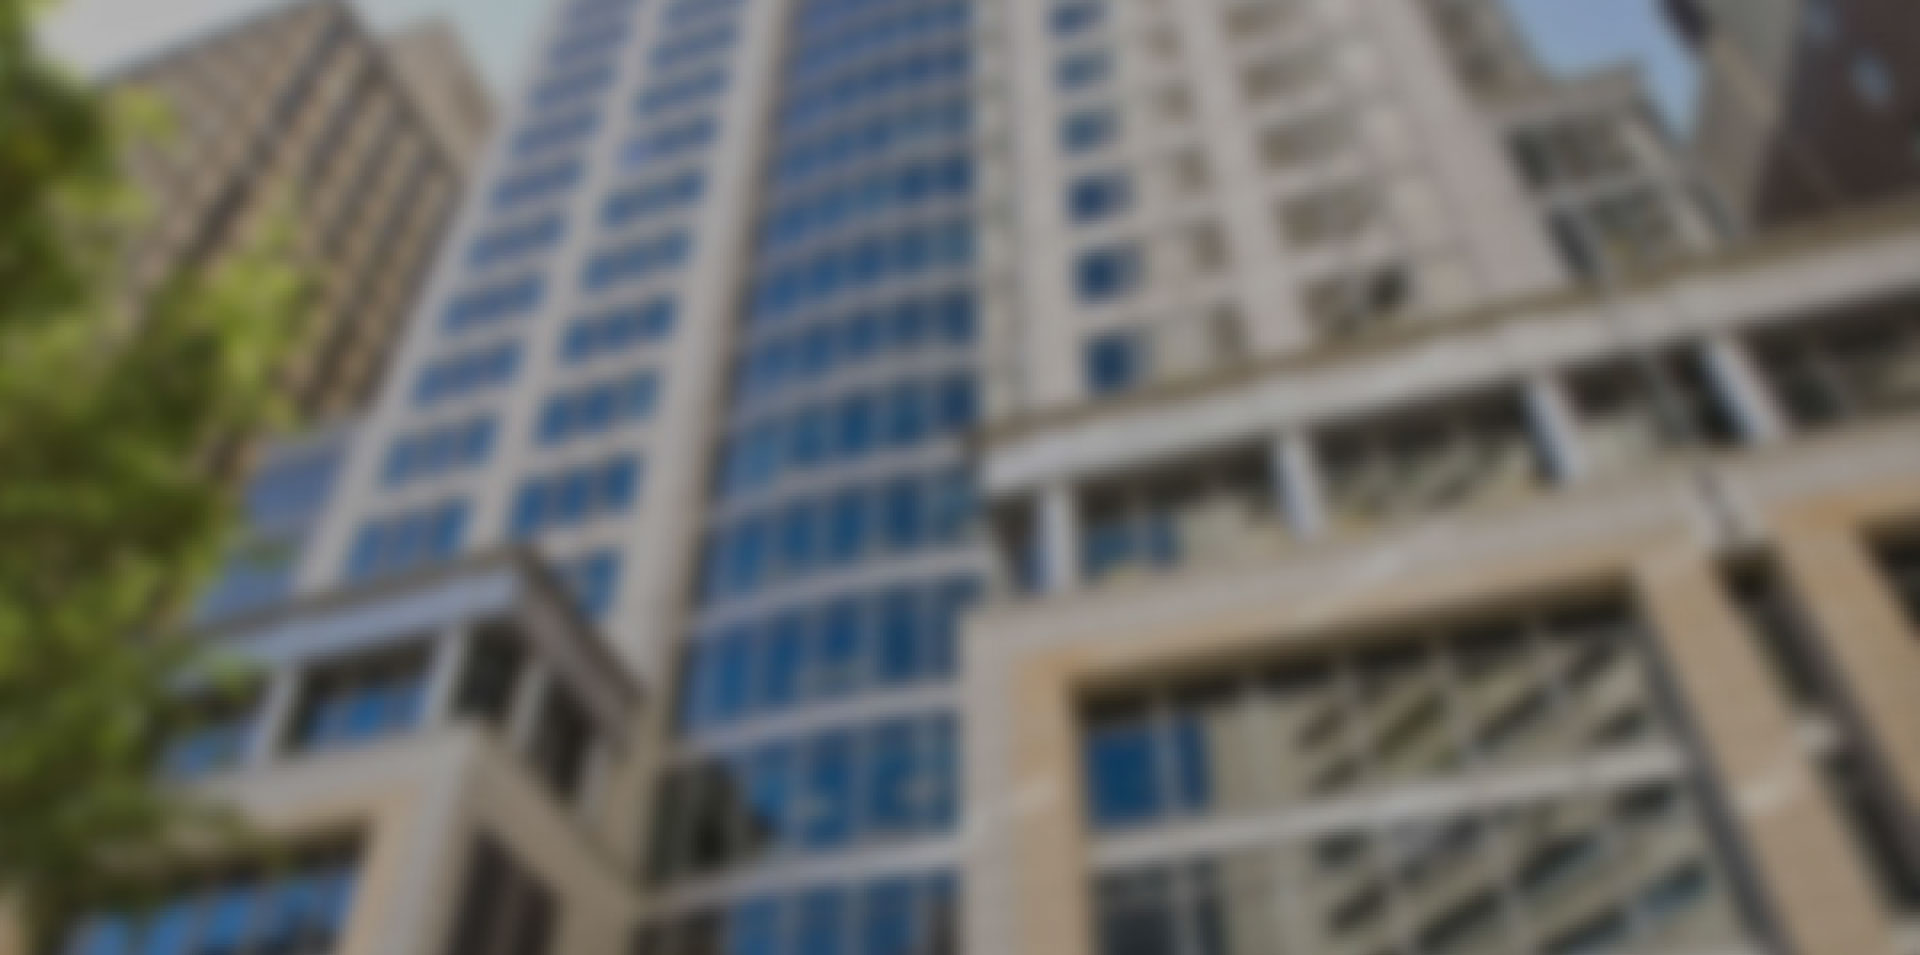
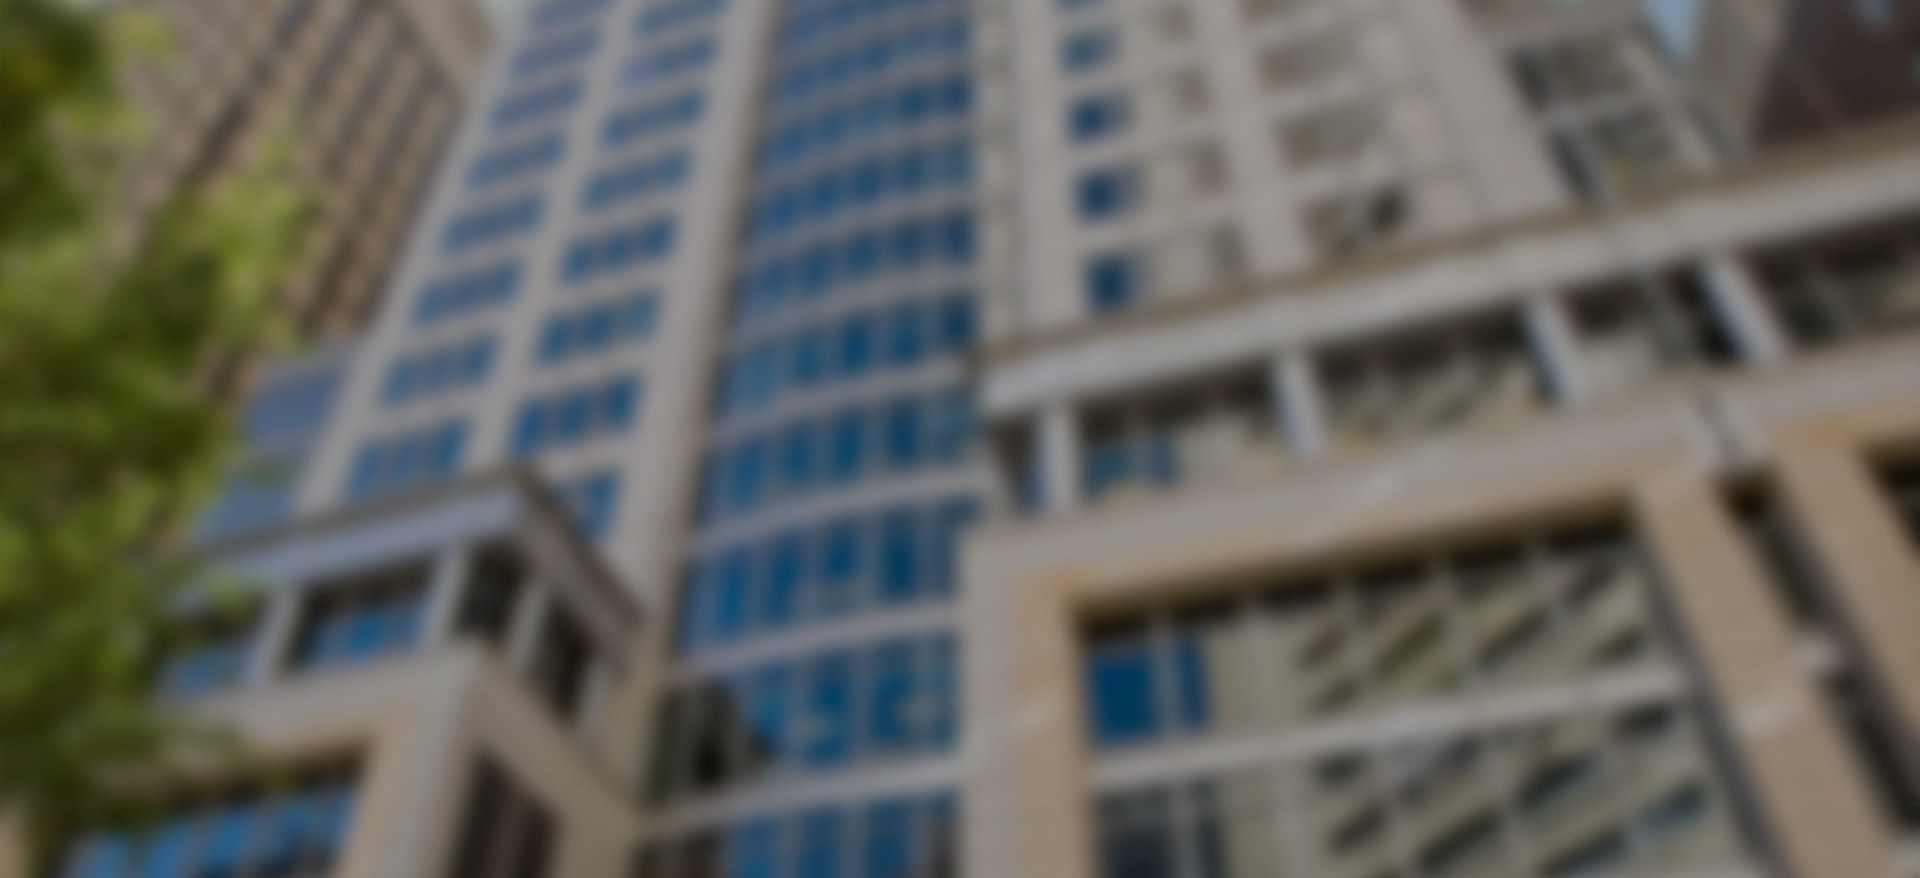
adjusting using x-scope

diff --git a/css/medium.css b/css/medium.css
@@ -59,14 +59,14 @@ header .survey {
 }
 #slideshownav a {
   background:#999;
-  -webkit-border-radius:10px;
-  -moz-border-radius:10px;
-  border-radius:10px;
+  -webkit-border-radius:12px;
+  -moz-border-radius:12px;
+  border-radius:12px;
   cursor:pointer;
   display:inline-block;
-  height:13px;
-  margin:0 10px 0 0;
-  width:13px;
+  height:12px;
+  margin:0 12px 0 0;
+  width:12px;
 }
 #slideshownav a span {
   display:none;
@@ -84,28 +84,31 @@ header .survey {
 }
 
 #help {
-  padding:50px 0;
+  padding:50px 0 40px;
 }
 #help h3 {
   font-size:26px;
+  line-height:40px;
 }
 #help .fl {
   width:430px;
 }
 #help .fr {
   display:block;
+  padding:30px 0 0;
 }
 
-#chances {padding:100px 0}
-#chances h3 {padding:0 0 50px}
+#chances {padding:110px 0 90px}
+#chances h3 {padding:0 0 60px}
 #chances h3, #chances p {font-size:30px}
 #socials {
-  margin:90px auto 0;
+  margin:65px auto 0;
   padding:50px 0 0;
   width:700px;
 }
+#socials p {margin:0; padding:20px 0 46px}
 
-footer {padding:30px 5% 20px}
+footer {padding:10px 5% 8px}
 footer div {text-align:left; width:auto}
 #footernav #equiem{padding:0}
 #footernav span {display:inline}

diff --git a/css/large.css b/css/large.css
@@ -1,18 +1,18 @@
-.cont {width:950px}
+.cont {width:900px}
 #slidesection h1 {font-size:48px}
 #slidesection h2 {font-size:33px}
 #slideshow {
-  background:url(../img/slideshowbg.png) center 0 no-repeat;
-  height:585px;
+  background:url(../img/slideshowbgv1.png) center 0 no-repeat;
+  height:545px;
   margin:0 auto;
-  padding:75px 0 0;
-  width:1090px;
+  padding:70px 0 0;
+  width:1020px;
 }
 #slideshow div, #slideshow li {
-  height:482px;
-  width:771px;
+  height:450px;
+  width:722px;
 }
 #whatis h2 {font-size:36px}
-#help .fl {width:580px}
+#help .fl {width:545px}
 #help h3 {font-size:36px}
-#chances h3, #chances p {font-size:33px}
+#chances h3, #chances p {font-size:31px}

diff --git a/index.html b/index.html
@@ -114,7 +114,7 @@
 
         <footer class="clearfix">
             <div id="footernav" class="fl">
-                <a href="http://equiem.com.au" target="_blank" id="equiem"><img src="img/equiem.png" alt="Powered by Equiem" /></a>
+                <a href="http://equiem.com.au" target="_blank" id="equiem"><img src="img/equiem.jpg" alt="Powered by Equiem" /></a>
             </div>
 
             <div class="fr">

diff --git a/css/main.css b/css/main.css
@@ -20,6 +20,7 @@ textarea {
 
 body {
     font-size: 1em;
+    font-family: "Helvetica Neue",Helvetica,Arial,sans-serif;
     line-height: 1.4;
 }
 
@@ -119,7 +120,7 @@ textarea {
     font-size:16px;
     font-weight:700;
     text-decoration:none;
-    padding:10px 15px;
+    padding:8px 15px;
 }
 .survey {
     background:#1979bb;
